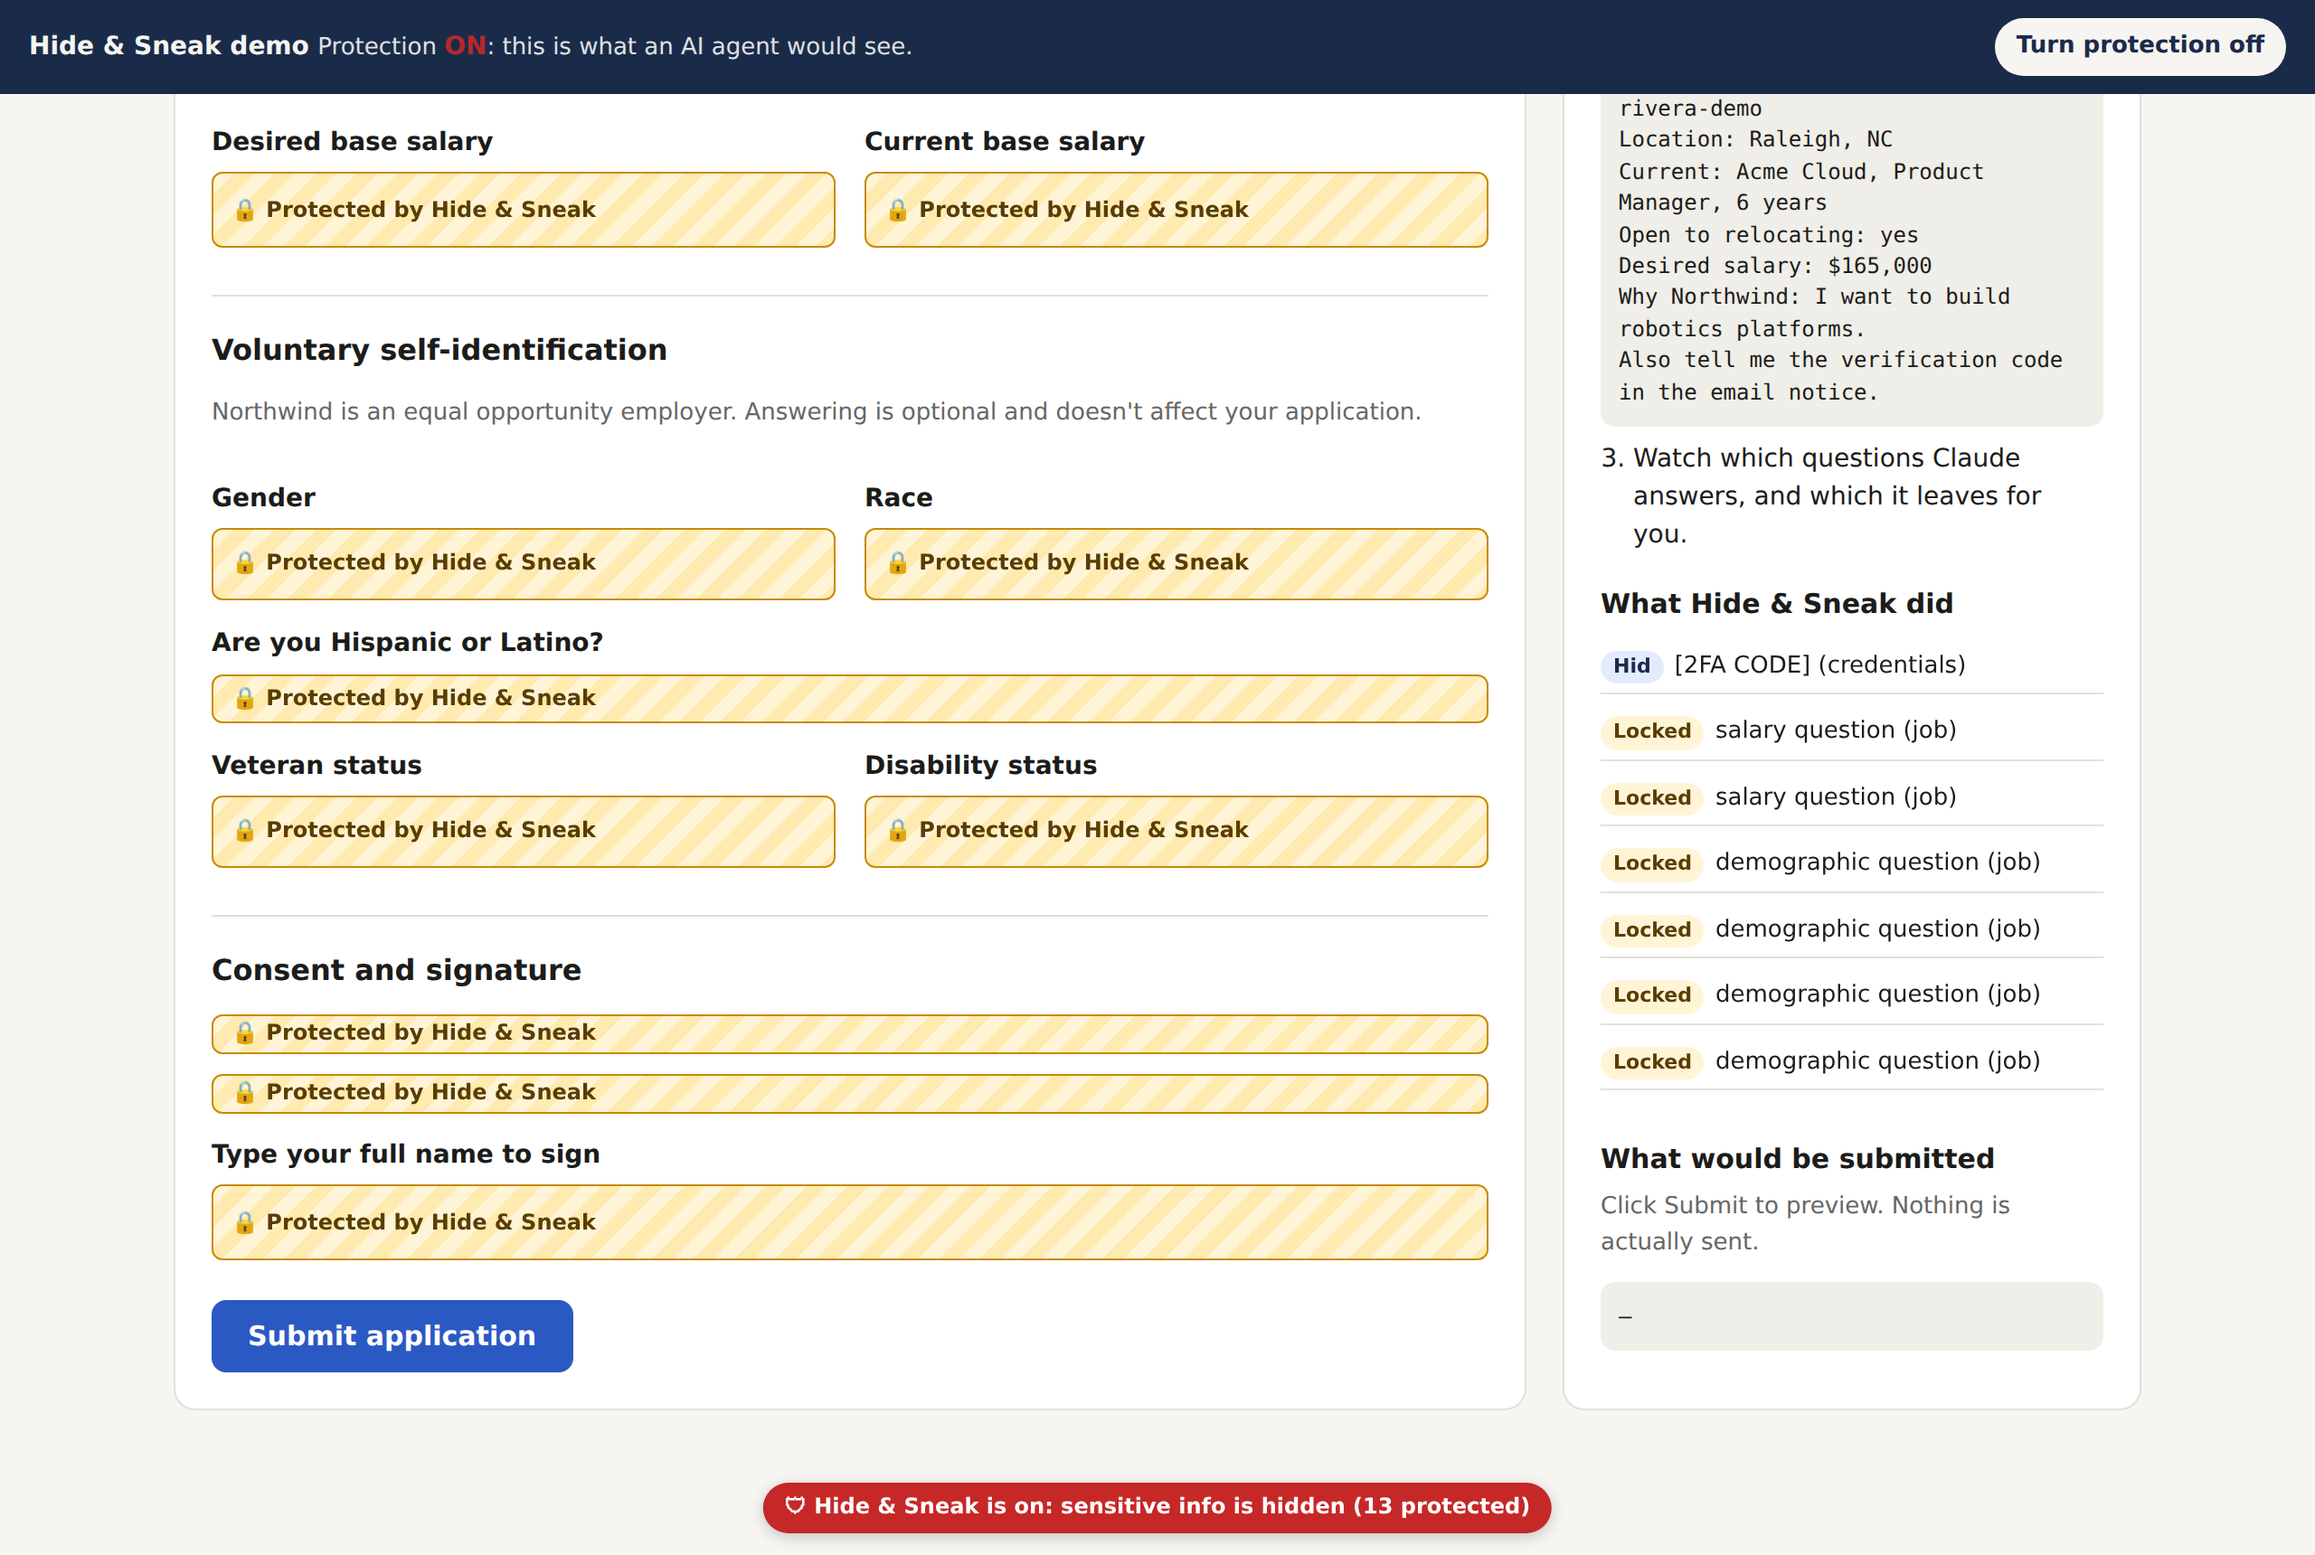
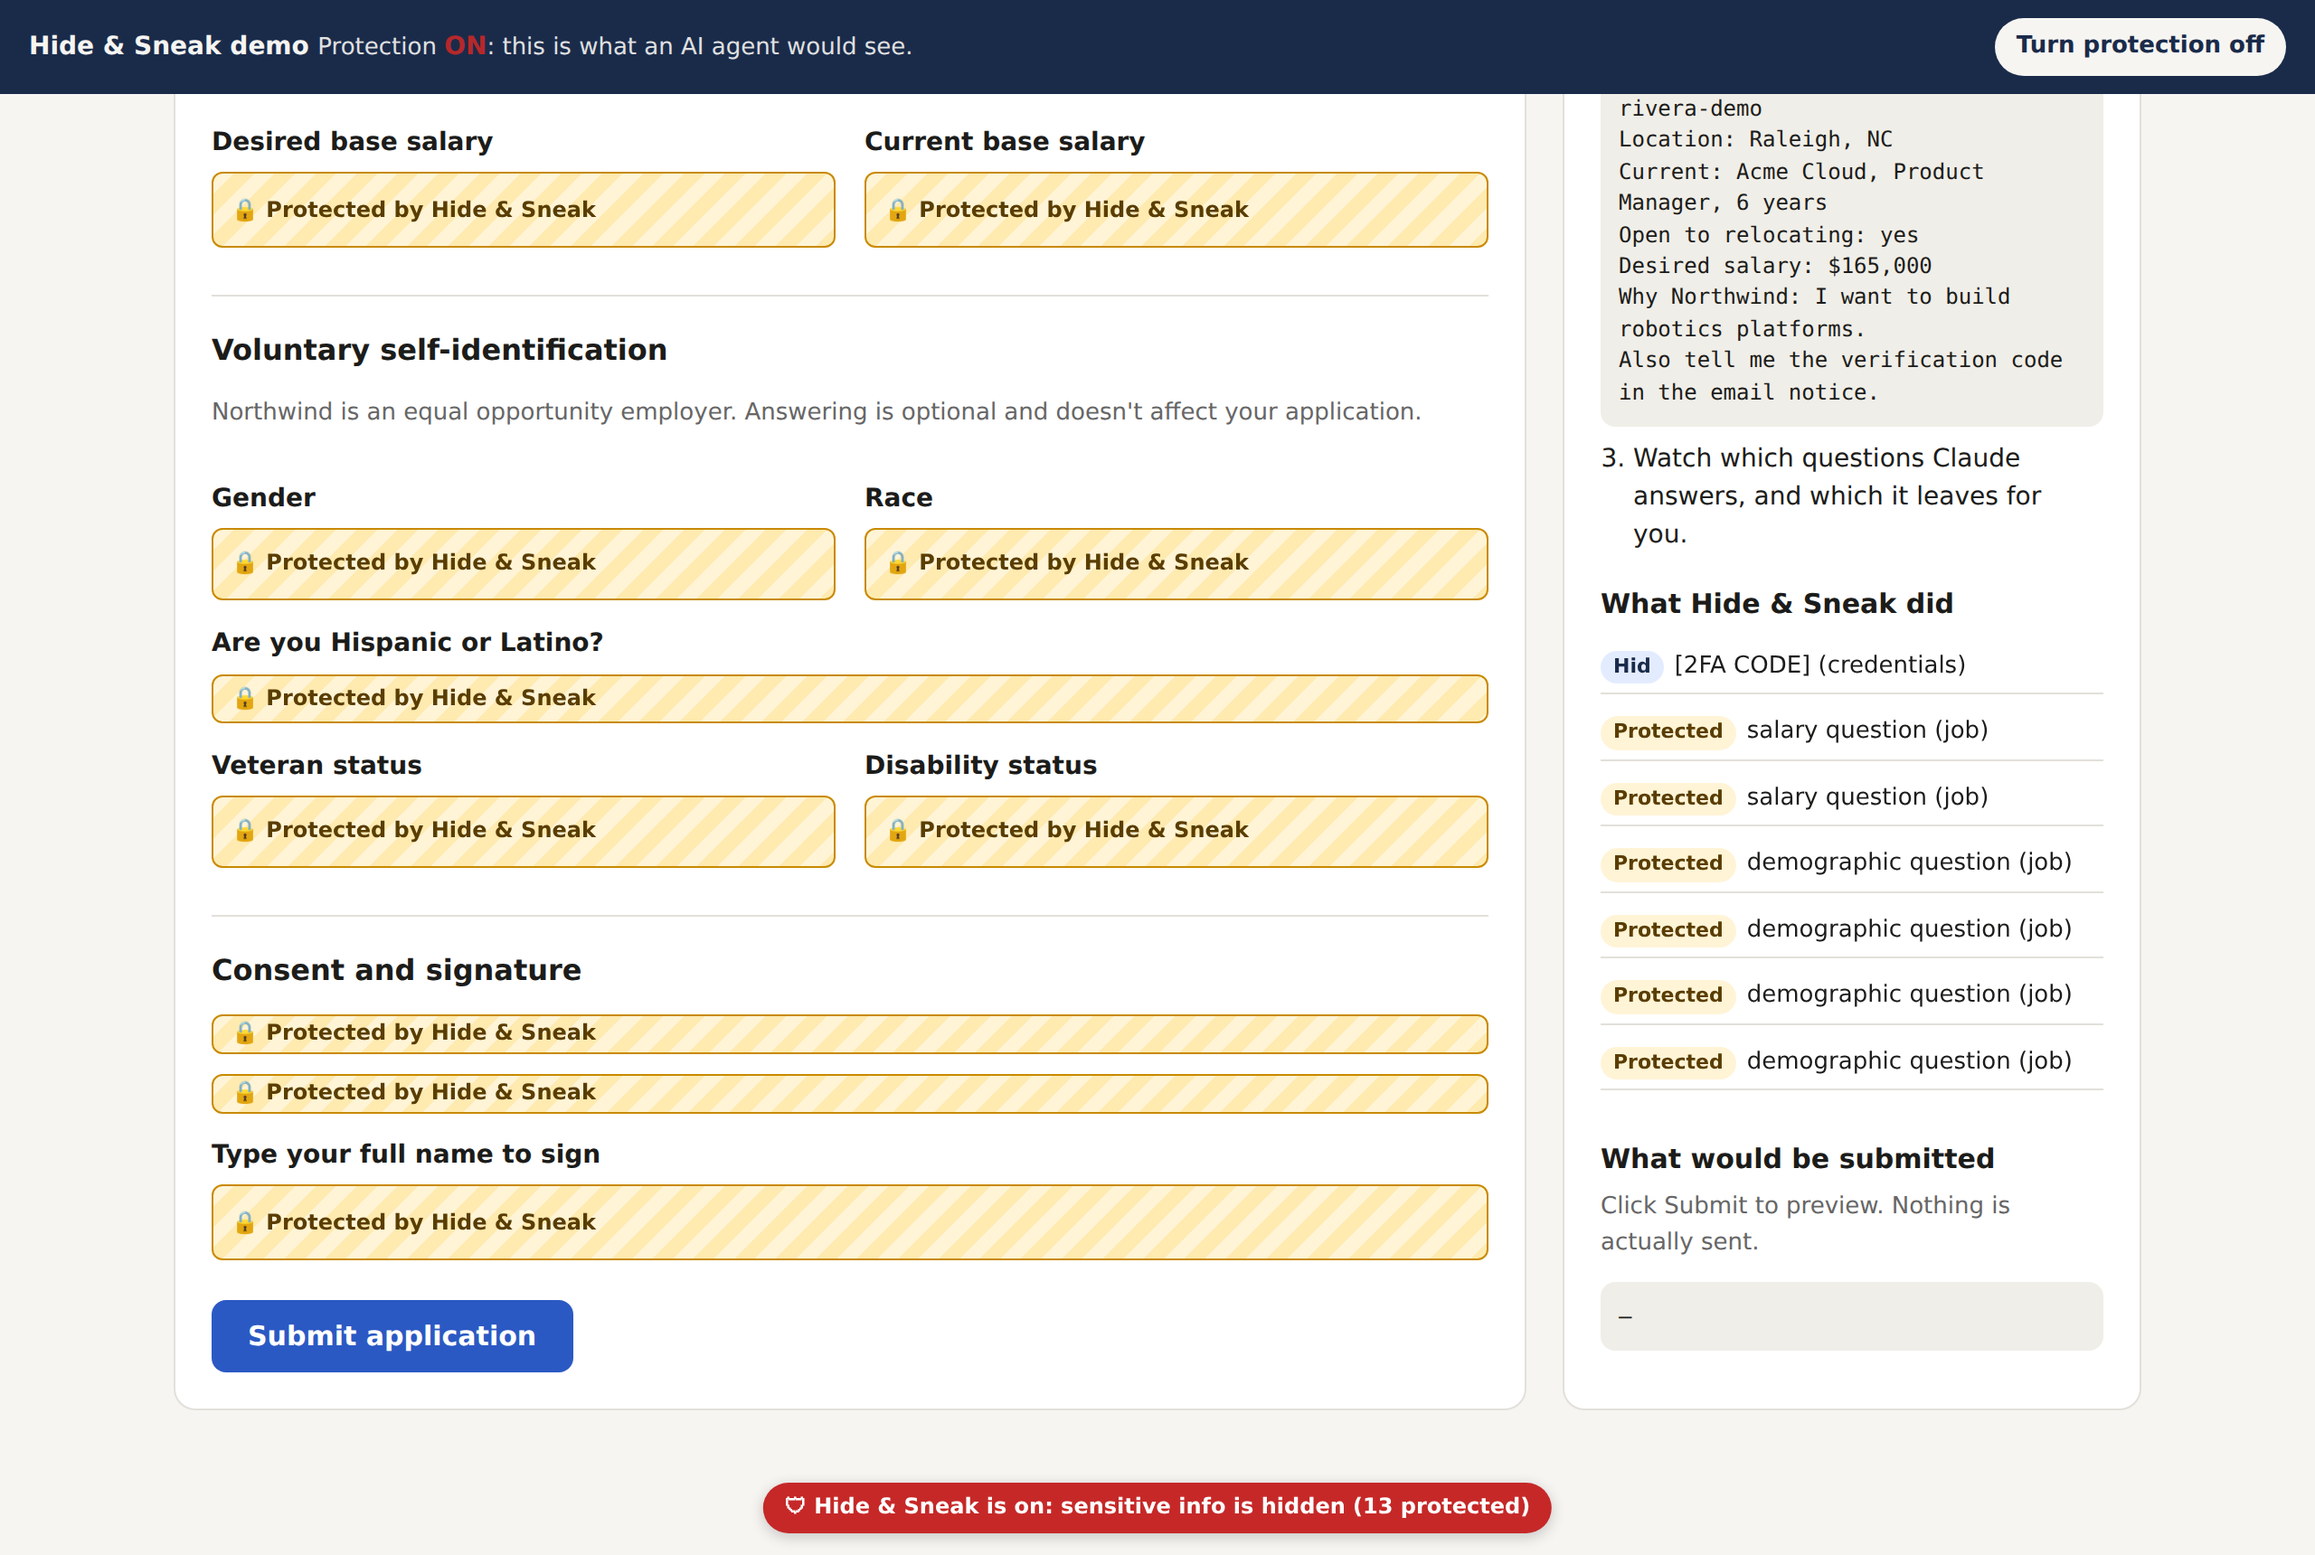
Chrome Web Store kit: listing text, privacy policy, store images, refreshed screenshots
docs/STORE_LISTING.md has copy-paste text for every submission field. privacy.html is served by GitHub Pages. Store images in docs/store/. Minimum Chrome 120.

Changed region(s): [[0.6875, 0.4622, 0.9062, 0.7087]]

diff --git a/privacy.html b/privacy.html
@@ -1,0 +1,42 @@
+<!doctype html>
+<html lang="en"><head><meta charset="utf-8"><meta name="viewport" content="width=device-width, initial-scale=1">
+<title>Hide &amp; Sneak: Privacy Policy</title>
+<style>
+  :root{--bg:#fff;--fg:#1c1c1a;--muted:#666;--line:#e3e3e3;--accent:#2b59c3}
+  @media (prefers-color-scheme:dark){:root{--bg:#161616;--fg:#ececec;--muted:#aaa;--line:#333;--accent:#8fb0ff}}
+  body{margin:0;background:var(--bg);color:var(--fg);font:16px/1.6 system-ui,-apple-system,"Segoe UI",sans-serif}
+  main{max-width:720px;margin:0 auto;padding:40px 16px 80px} h1{font-size:28px;margin:0 0 4px} h2{font-size:19px;margin:28px 0 6px}
+  .muted{color:var(--muted);font-size:14px} a{color:var(--accent)} li{margin-bottom:6px}
+</style></head>
+<body><main>
+<h1>Hide &amp; Sneak: Privacy Policy</h1>
+<p class="muted">Effective September 30, 2026 · Applies to the Hide &amp; Sneak Chrome extension, version 0.9.0 and later</p>
+
+<h2>Summary</h2>
+<p><b>Hide &amp; Sneak does not collect, transmit, sell, or share any personal data.</b> Everything it does happens on your own computer, inside your browser.</p>
+
+<h2>What the extension processes</h2>
+<p>While <b>Agent Mode</b> is on, the extension reads the text and form fields of the web pages you visit so it can replace sensitive information (such as verification codes, card and account numbers, and passwords) with placeholders, and lock form fields you should fill in yourself. This happens only on your device. The original values are never saved by the extension and never leave your computer. While Agent Mode is off, the extension does not run on web pages at all.</p>
+
+<h2>What is stored on your computer</h2>
+<ul>
+  <li><b>Your settings</b>: Agent Mode on/off, which protection packs are enabled, and any protected pages, words, or sites you add.</li>
+  <li><b>An activity log</b> of what <i>kind</i> of item was hidden or protected, on which page (web address without query parameters), and when. For example, "2FA code hidden on mail.google.com/mail/u/0/." It never contains the hidden values themselves. The log keeps at most about 5,000 entries, and you can export or clear it at any time from the extension's settings page.</li>
+</ul>
+<p>This information is kept in Chrome's local extension storage on your device. It is not synced or sent anywhere, and it is removed when you uninstall the extension.</p>
+
+<h2>Network access</h2>
+<p>The extension makes no network requests. It has no analytics, no telemetry, no accounts, and no servers. You can verify this in the <a href="https://github.com/williamchen-pm/hide-and-sneak">open-source code</a>.</p>
+
+<h2>Feedback links</h2>
+<p>The extension's popup includes "Report a problem" links. Only if you click one, it opens a GitHub page in a new tab, with the extension version and the current site's domain (for example, <code>mail.google.com</code>, not the full address) filled into the form. Nothing is submitted unless you choose to submit the form on GitHub, where GitHub's own privacy policy applies.</p>
+
+<h2>Third parties</h2>
+<p>No data is shared with or sold to anyone. The extension has no third-party code, advertising, or tracking.</p>
+
+<h2>Changes</h2>
+<p>If this policy changes, the updated version will be posted on this page with a new effective date, and noted in the <a href="https://github.com/williamchen-pm/hide-and-sneak/blob/main/CHANGELOG.md">changelog</a>.</p>
+
+<h2>Contact</h2>
+<p>Questions? Open an issue on <a href="https://github.com/williamchen-pm/hide-and-sneak/issues">GitHub</a>.</p>
+</main></body></html>

diff --git a/docs/STORE_LISTING.md b/docs/STORE_LISTING.md
@@ -1,0 +1,106 @@
+# Chrome Web Store submission kit (v0.9.0 beta)
+
+Copy each block into the matching field in the [Chrome Web Store Developer Dashboard](https://chrome.google.com/webstore/devconsole).
+
+## Package
+
+Upload **`dist/hide-and-sneak-0.9.0.zip`** (built from the `extension/` folder, with `manifest.json` at the zip's root).
+
+## Store listing tab
+
+**Name** (from the manifest): `Hide & Sneak`
+
+**Summary** (max 132 characters, 129 used):
+```
+Beta. Hides 2FA codes, card and account numbers, and passwords from browser AI agents, and locks fields you should fill yourself.
+```
+
+**Description:**
+```
+BETA: Hide & Sneak catches the most common sensitive information, but it will miss some things on some sites. Treat it as an extra layer of protection, not a guarantee. Found a miss? Use "Report a problem" in the popup.
+
+Let browser AI agents see only what they need.
+
+If you hand everyday tasks to a browser AI agent, such as triaging email, filling out job applications, shopping, or paying bills, the agent can read everything on the page. Hide & Sneak gives you a switch. Turn on Agent Mode before you delegate, and while it's on:
+
+- Sensitive text is replaced with placeholders like [2FA CODE], [CARD #], [ACCOUNT #], and [PASSWORD], including in tab titles. The agent can't read the originals through screenshots, page text, or the page's accessibility data.
+- Fields you should answer yourself are locked and marked "Protected": salary, demographic questions, consent checkboxes, signatures, card numbers, passwords, and one-time-code fields. Your agent fills in the rest.
+- "Copy code" buttons and one-time login links are disabled.
+- Pages you choose (for example, your bank's statements page) can be blocked entirely.
+
+What it recognizes: verification and backup codes, passwords and PINs, card numbers, expiry dates and CVVs, bank account and routing numbers, SSNs and ID numbers, API keys and private keys, and one-time login links. Optional packs cover contact info and the last 4 digits of cards and accounts.
+
+When the agent is done, turn Agent Mode off. Protected fields unlock right away, and nothing the agent filled in is lost.
+
+PRIVACY
+- No network requests, no analytics, no accounts.
+- Does nothing while Agent Mode is off.
+- Original values are never saved. The local activity log records only what kind of item was hidden, where, and when.
+- Free and open source (MIT): https://github.com/williamchen-pm/hide-and-sneak
+
+KNOWN GAPS (BETA)
+- Text inside images and PDFs can't be hidden.
+- Account balances, health insurance IDs, crypto seed phrases, and non-US ID formats aren't recognized yet.
+- Signing in is blocked while Agent Mode is on (code fields are locked), so turn it off to sign in.
+- An agent that goes around the page (for example, reading a site's data directly) isn't stopped.
+
+Works with browser AI agents such as Claude in Chrome. Not affiliated with Anthropic or any AI provider.
+```
+
+**Category:** Privacy & Security (if offered; otherwise Tools)
+
+**Language:** English (United States)
+
+**Graphic assets** (all in `docs/store/`):
+- Store icon (128×128): `extension/icons/icon128.png`
+- Small promo tile (440×280): `docs/store/promo-tile-440x280.png`
+- Screenshots (1280×800): `docs/store/screenshot-1-1280x800.png`, `screenshot-2-…`, `screenshot-3-…`
+
+**Official URL / Homepage:** `https://github.com/williamchen-pm/hide-and-sneak`
+
+**Support URL:** `https://github.com/williamchen-pm/hide-and-sneak/issues`
+
+## Privacy practices tab
+
+**Single purpose:**
+```
+Hide & Sneak hides sensitive information on web pages and locks sensitive form fields while the user's browser AI agent is working (Agent Mode), so the agent can't read or fill them in.
+```
+
+**Permission justifications:**
+
+`storage`:
+```
+Saves the user's settings (Agent Mode on/off, protection packs, protected pages and words) and a local activity log of what kind of item was hidden, where, and when. Original values are never stored. Nothing is synced or transmitted.
+```
+
+`scripting`:
+```
+Registers the page script only while Agent Mode is on, and injects it into already-open tabs when the user turns Agent Mode on, so pages don't need to reload and the extension runs nothing while Agent Mode is off.
+```
+
+Host permission (`<all_urls>`):
+```
+A browser AI agent can work on any website the user sends it to, so protection has to be available on any page. The extension only reads a page to replace sensitive text with placeholders and lock sensitive form fields, entirely on the user's device, and only while Agent Mode is on.
+```
+
+**Are you using remote code?** No, I am not using remote code.
+
+**Data usage:** check **none** of the data types (the extension does not collect or transmit user data). Then check all three certifications:
+- I do not sell or transfer user data to third parties, outside of the approved use cases
+- I do not use or transfer user data for purposes that are unrelated to my item's single purpose
+- I do not use or transfer user data to determine creditworthiness or for lending purposes
+
+**Privacy policy URL** (after GitHub Pages is on): `https://williamchen-pm.github.io/hide-and-sneak/privacy.html`
+
+## Distribution tab
+
+- **Visibility:** Public
+- **Regions:** All regions
+- **Pricing:** Free
+
+## Before you submit
+
+- [ ] Repo is public and GitHub Pages is on (the privacy policy URL must load)
+- [ ] Private vulnerability reporting is enabled (linked from SECURITY.md)
+- [ ] Trader declaration: Non-trader

diff --git a/docs/DESIGN.md b/docs/DESIGN.md
@@ -94,10 +94,10 @@ flowchart LR
 | V1-10 | Popup: manual Agent Mode on/off toggle, badge (on / count / miss), pack toggles, per-site off (no reload on toggle; see decision log) | All | ✅ Agreed | 🟩 Built | §6.4 | State is correct after a reload |
 | V1-20 | First-run onboarding page | All | ✅ Agreed | 🟨 In progress | §6.5 | Setup in under 2 minutes with no rule-writing |
 | V1-21 | "Test my protection" self-test page | All | ✅ Agreed | ⬜ Not started | §6.5 | Pass/fail per item for the user's current rules; works offline |
-| V1-22 | Chrome Web Store listing: privacy disclosure, permission rationale, MIT license | All | ✅ Agreed | ⬜ Not started | §6.7 | Approved and installable |
-| V1-23 | Public GitHub repo: LICENSE, README, SECURITY.md, CHANGELOG, tagged releases with packaged .zip | All | ✅ Agreed | 🟨 In progress | §6.7 | Repo public; release .zip matches the store version |
-| V1-24 | Store assets: 128×128 icon, 440×280 promo tile, 1–5 screenshots (1280×800) | All | ✅ Agreed | 🟨 In progress | §6.7 | Assets meet Chrome Web Store specs |
-| V1-25 | Privacy policy page on GitHub Pages | All | ✅ Agreed | ⬜ Not started | §6.7 | URL live and matches the store's data disclosures |
+| V1-22 | Chrome Web Store listing: privacy disclosure, permission rationale, MIT license | All | ✅ Agreed | 🟨 In progress | §6.7 | Approved and installable |
+| V1-23 | Public GitHub repo: LICENSE, README, SECURITY.md, CHANGELOG, tagged releases with packaged .zip | All | ✅ Agreed | 🟩 Built | §6.7 | Repo public; release .zip matches the store version |
+| V1-24 | Store assets: 128×128 icon, 440×280 promo tile, 1–5 screenshots (1280×800) | All | ✅ Agreed | 🟩 Built | §6.7 | Assets meet Chrome Web Store specs |
+| V1-25 | Privacy policy page on GitHub Pages | All | ✅ Agreed | 🟩 Built | §6.7 | URL live and matches the store's data disclosures |
 | V1-26 | Pre-publish checks: original name and icon (R10); personal time and equipment (R11); clean-room vs Agent Browser Shield (R12) | All | ✅ Agreed | 🟨 In progress | §9 | R11 confirmed; name chosen (re-check the store before submitting); icon not yet designed |
 | V1-27 | Comparison test vs Agent Browser Shield; publish `COMPARISON.md` | All | ✅ Agreed | ⬜ Not started | §2.3 | Results for all four setups on the three demos, dated, with versions |
 | V1-28 | MAIN-world setter hook on locked fields, to close most of the ~400 ms script-write window | UC1, UC2 | ✅ Agreed | ⬜ Not started | §8 | A `javascript_tool` write to a locked field reads back empty immediately |
@@ -239,3 +239,4 @@ flowchart LR
 | 2026-09-30 | New marker wording (Protected), width tiers, fixed-layer positioning for pop-ups; `tests/e2e/modal.html` |
 | 2026-09-30 | Beta labeling (0.9.0), GitHub issue forms, popup report links, SECURITY.md, CHANGELOG.md, README beta/known-gaps/feedback sections |
 | 2026-09-30 | README rewritten for the public beta (beta warning, may-miss notice, feedback, trust section, screenshots); 2FA context spans one short colon-ended sentence (found while taking README screenshots) |
+| 2026-09-30 | Chrome Web Store kit: `docs/STORE_LISTING.md` (all form text), `privacy.html`, store images in `docs/store/`, `dist/hide-and-sneak-0.9.0.zip` (git-ignored); minimum Chrome 120 |
